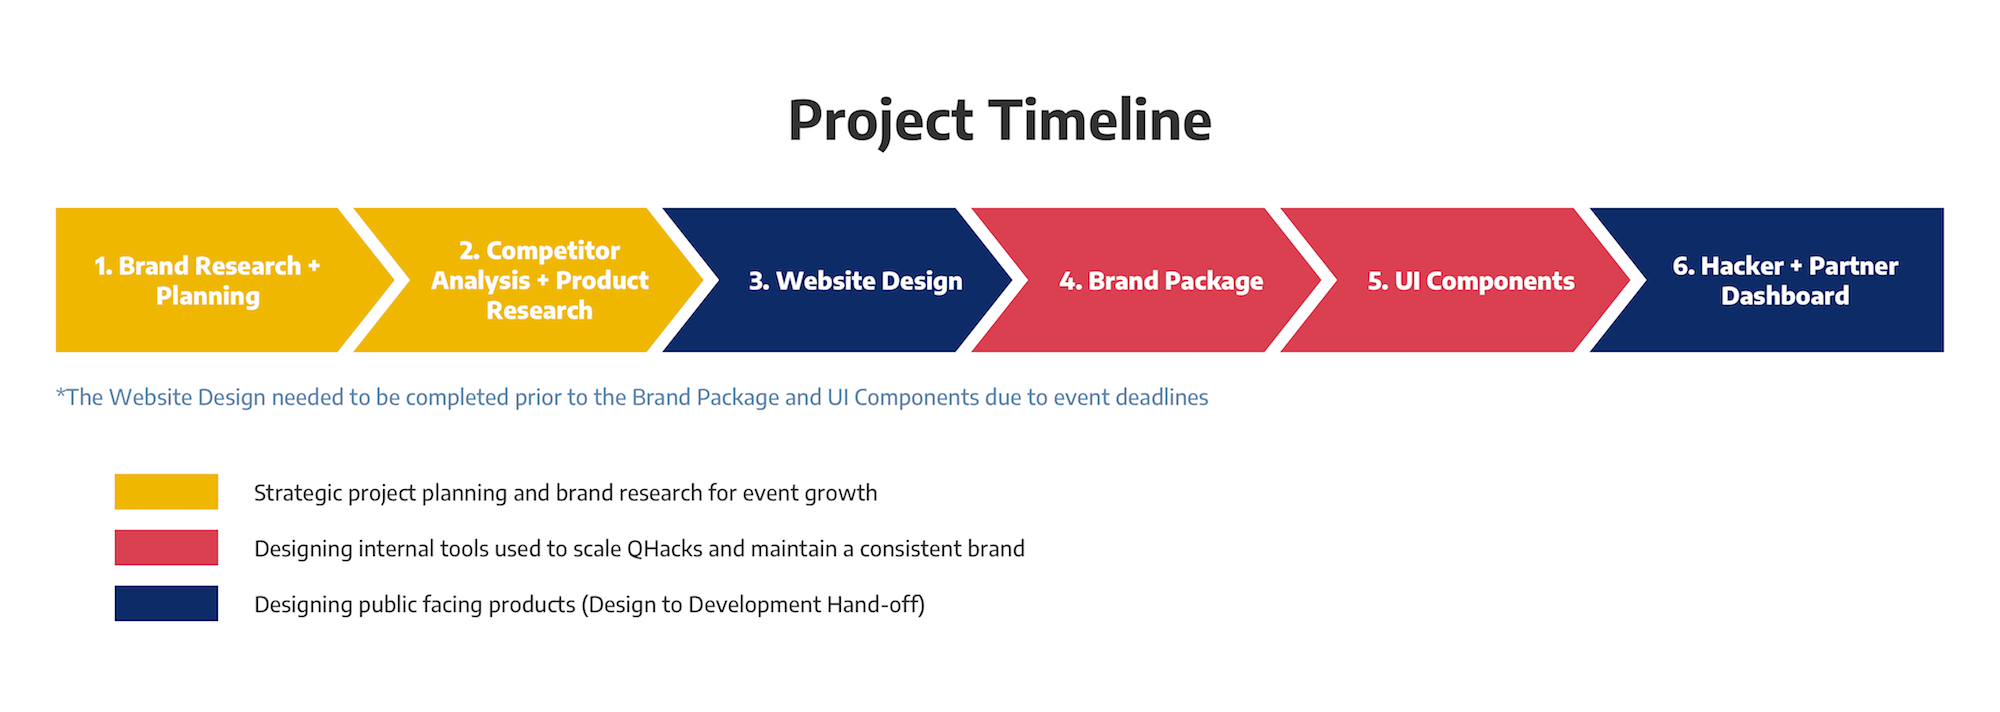
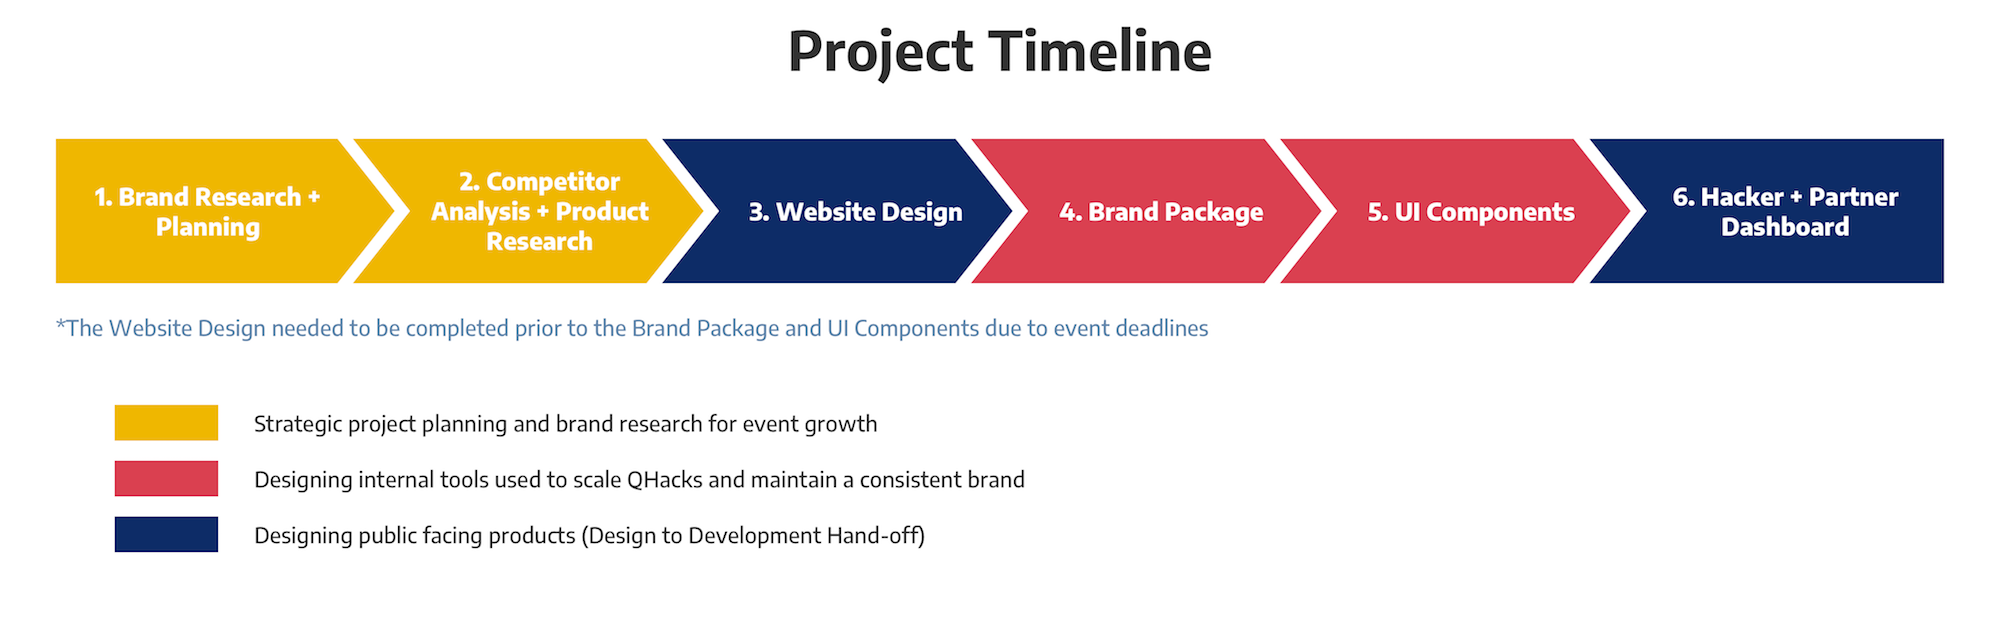
Illustration resizing

Changed region(s): [[0.0, 0.0311, 0.992, 0.591], [0.031, 0.6221, 0.527, 0.8709]]

diff --git a/qhacks.html b/qhacks.html
@@ -86,14 +86,14 @@
             <p class="caption">Qhacks landing page with custom illustrations.</p>
         </div>
 
-        <div class="section grey">
-            <img class="large-img" src="assets/qhacks/planning.png"/>
-            <p class="caption">Project timeline from July 2018 to February 2019.</p>
-        </div>
-
-        <div class="section section-width white">
+        <div class="section section-width grey">
             <p class="major-title">Role</p>
             <P class="section-text">As the sole designer on this effort, I will be designing the website, brand package, UI components, hacker and partner dashboard, and additional design assets. Through this process, I will be auditing the current products, conducting a competitor analysis for every product, conducting usability and interaction research, and testing my designs using user interviews and data collection. A few things I will be focusing on is the flexibility and durability of the products, ensuring that they will easily be reused and built upon for the following years. Lastly, I will be working remotely from the team, however, I will be in contact with the project leads and developers on a consistent basis. </P>
+        </div>
+
+        <div class="section white">
+            <img class="large-img" src="assets/qhacks/planning.png"/>
+            
         </div>
 
         <div class="section section-width grey">

diff --git a/hatchful-onboarding.html b/hatchful-onboarding.html
@@ -91,7 +91,7 @@
 
         <div class="section white">
             <img class="large-img" src="assets/onboarding/timeline.png"/>
-            <p class="caption">Project timeline in the 4 main stages of process.</p>
+            <p class="caption">Project timeline in the 4 main stages of the process.</p>
         </div>
 
         <div class="section section-width grey">

diff --git a/hatchful-cms.html b/hatchful-cms.html
@@ -81,7 +81,7 @@
 
         <div class="section white">
             <img class="large-img" src="assets/cms-prev.jpg"/>
-            <p class="caption">High fidelity mockup of the upload template screen.</p>
+            <p class="caption">High fidelity concept of the upload template screen.</p>
         </div>
 
         <div class="section section-width white">
